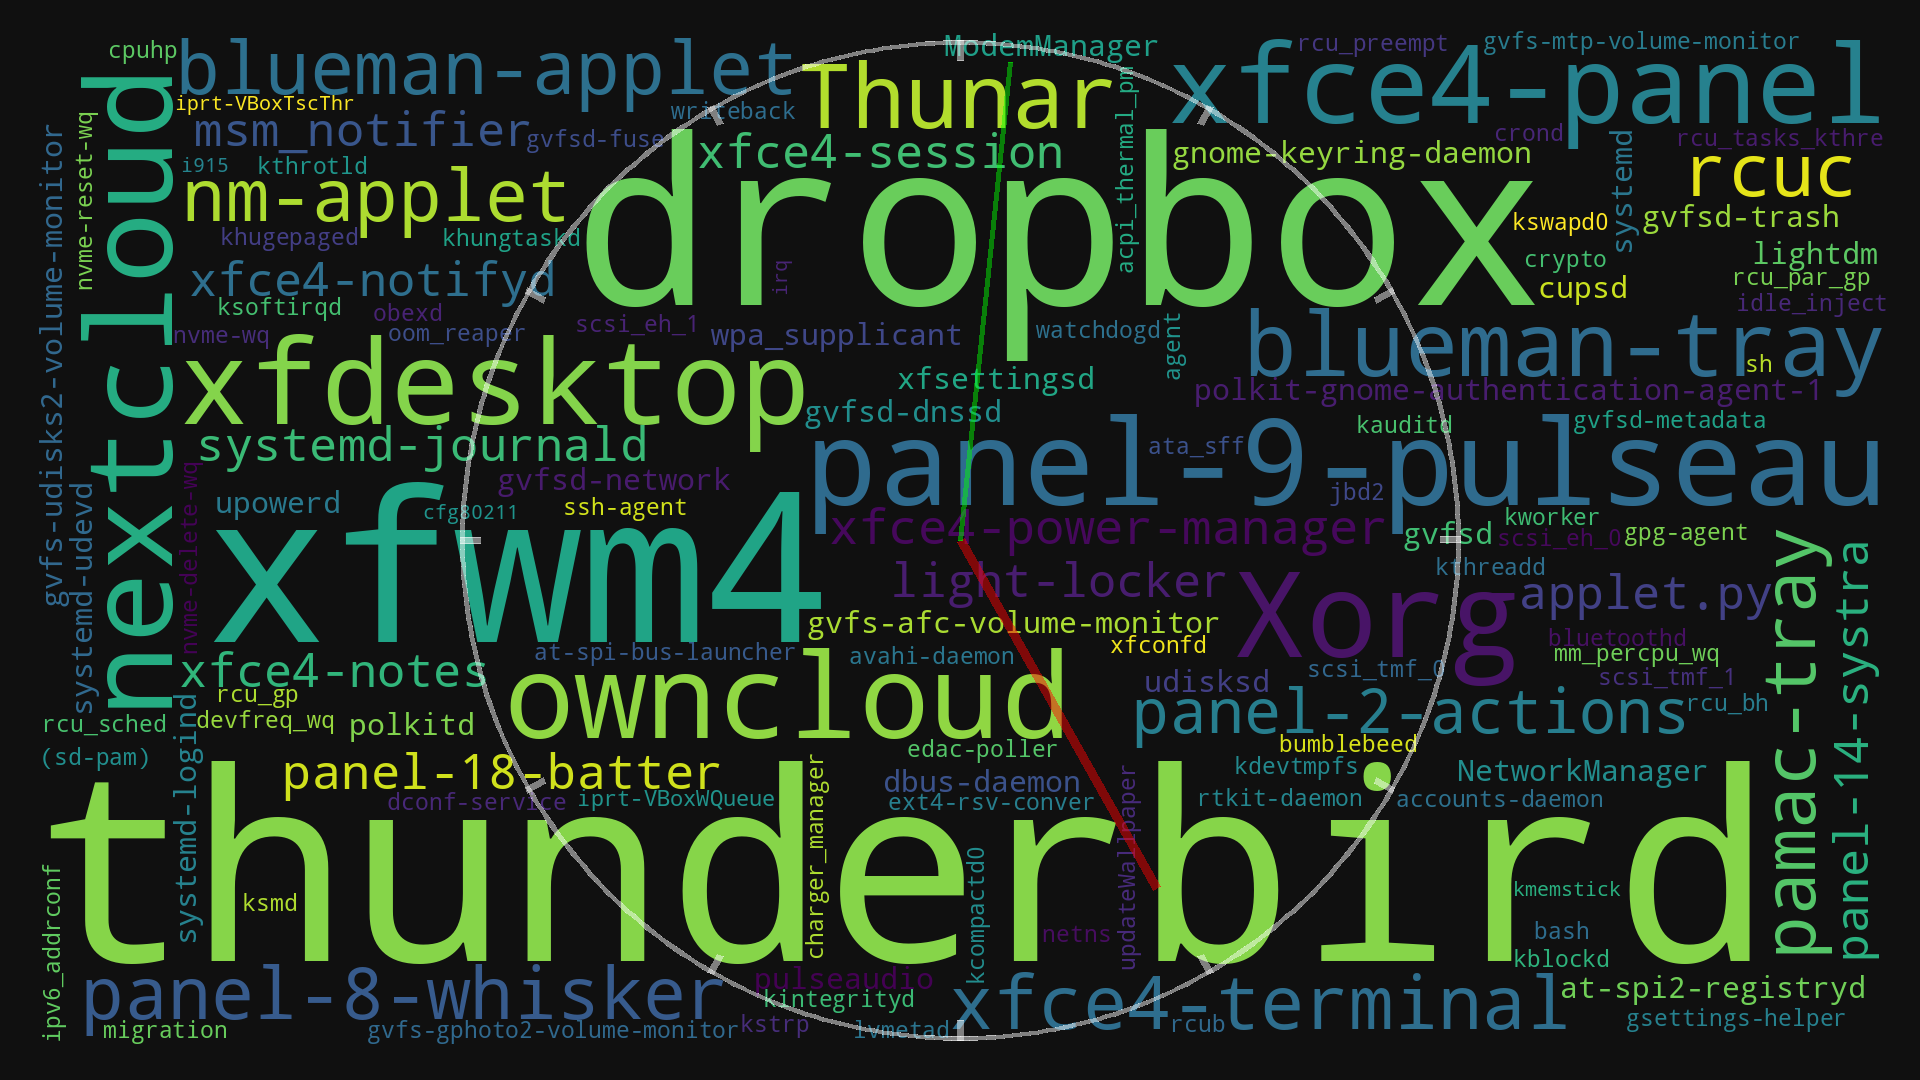
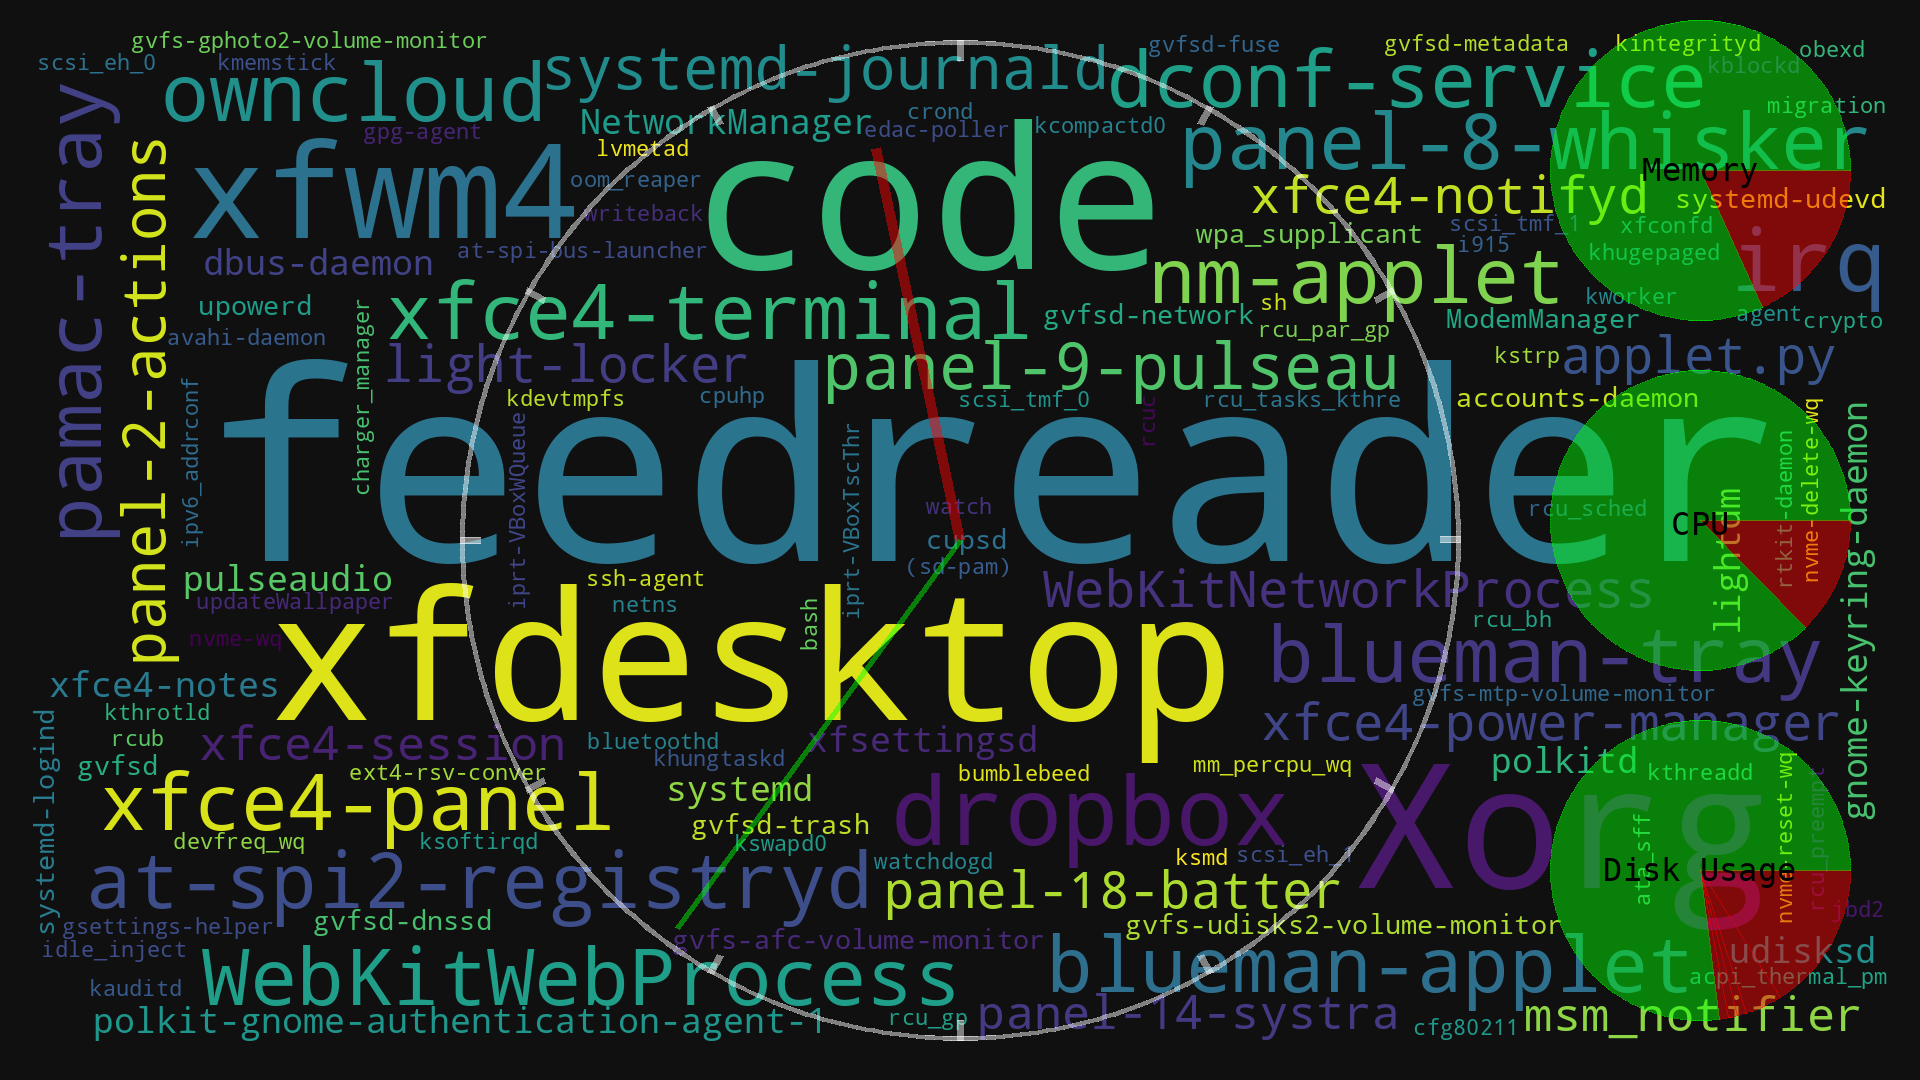
Add more stats

diff --git a/addStats.py b/addStats.py
@@ -1,6 +1,7 @@
-from PIL import Image, ImageDraw
+from PIL import Image, ImageDraw, ImageFont
 import os
 import math
+import psutil
 
 width, height = 1920, 1080
 
@@ -9,7 +10,7 @@ im = Image.open("wc.png")
 draw = ImageDraw.Draw(im, "RGBA")
 
 
-# add disk usage
+# disk usage
 lines = os.popen("df -BK").read().split("\n")
 lines = [i.split(" ") for i in lines[1:]]
 lines = [[i for i in line if i!=""] for line in lines][:-1]
@@ -20,20 +21,38 @@ percents = [int(line[4][:-1]) for line in lines]
 pos_x, pos_y = (1700, 870)
 r = 150
 
+abstand = r * 2 + 50
+
+font = ImageFont.truetype('/usr/share/fonts/TTF/VeraMono.ttf', 32)
+
 curr = 0
 for p in percents:
     angle = 360 * p / 100
     draw.pieslice([pos_x - r, pos_y -r, pos_x + r, pos_y + r], curr, curr + angle, "#ff000077")
     curr = curr + angle
 draw.pieslice([pos_x - r, pos_y -r, pos_x + r, pos_y + r], curr, 360, "#00ff0077")
+text = "Disk Usage"
+w,h = draw.textsize(text, font=font)
+draw.text([pos_x -w/2, pos_y - h/2], text, "black", font=font)
 
 
+# CPU
+percent = psutil.cpu_percent() * 360 / 100
 
+draw.pieslice([pos_x - r, pos_y - r - abstand, pos_x + r, pos_y + r - abstand], 0, percent, "#ff000077")
+draw.pieslice([pos_x - r, pos_y - r - abstand, pos_x + r, pos_y + r - abstand], percent, 360, "#00ff0077")
+text = "CPU"
+w,h = draw.textsize(text, font=font)
+draw.text([pos_x - w/2, pos_y - h/2 - abstand], text, "black", font=font)
 
+# memory
+percent = psutil.virtual_memory().percent * 360 / 100
 
-
-
-
+draw.pieslice([pos_x - r, pos_y - r - 2*abstand, pos_x + r, pos_y + r - 2*abstand], 0, percent, "#ff000077")
+draw.pieslice([pos_x - r, pos_y - r - 2*abstand, pos_x + r, pos_y + r - 2*abstand], percent, 360, "#00ff0077")
+text = "Memory"
+w,h = draw.textsize(text, font=font)
+draw.text([pos_x - w/2, pos_y - h/2 - 2*abstand], text, "black", font=font)
 
 
 im.save("wallpaper.png")
